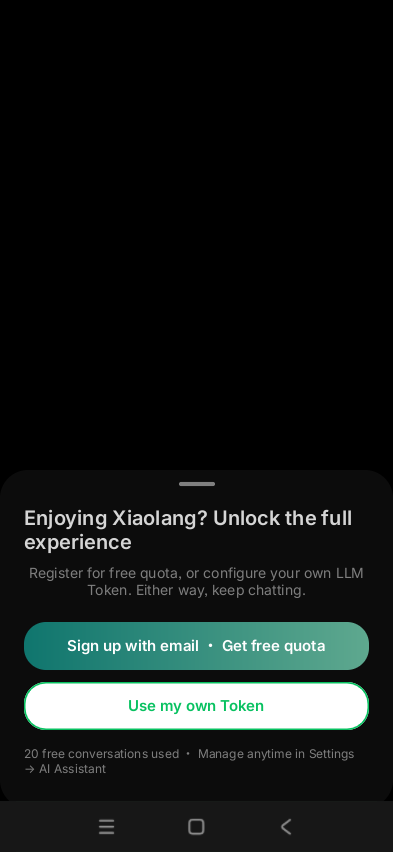
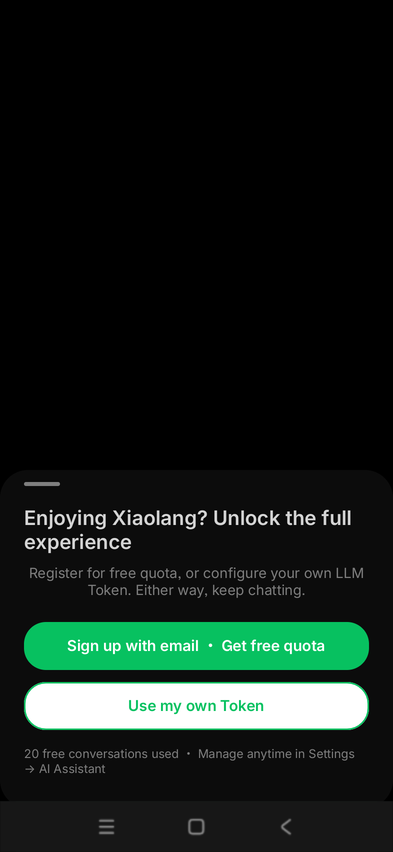
feat(design): Chat 卡片全量组件化——新建 ChatComponents 页集中管理
- 新建 ChatComponents 页(438:328),Chat 域 10 组件集中存放:
  新建 6 个(user_bubble/date_chip/thread_item/nudge_card/cleanup_card/
  cleanup_done_card,经 C→I→M→D 配方,文案全部保语言变量绑定)+
  迁入 4 个既有(input_bar/top_bar/chat_photo_card/task_card,实例零影响)
- Chat 页 7 帧内 16 处手绘卡片全部替换为实例(含文本重绑/实例根
  IMAGE hash 覆写/选中态覆写/title fill 防溢出)
- btnRegister 渐变 literal 改绑 scheme/primary 纯色(SendButton 先例);
  U 侧 fills 绑定姿势=paint 内嵌 boundVariables:{color:{type:VARIABLE_ALIAS,id}}
- 治理三过:health-check literal=0/dup=0/drift=0;6 组件双模导出
  light-verify(4 自动 OK+2 归因豁免);catalog 17→23;预览 12 张入库;
  Chat 帧 refs 5 张更新;ardot-scan PAGES +ChatComponents

diff --git a/scripts/ardot-scan.py b/scripts/ardot-scan.py
@@ -41,6 +41,7 @@ PAGES = [
     ("Organize", "267:21"),
     ("Memories", "297:1"),
     ("Components", "386:45"),
+    ("ChatComponents", "438:328"),
 ]
 
 # 缓存路径正则回退: 允许文件名含空格(fetch_variables 缓存名带集合名, 如 "PoLang Tokens"), 不跨行
